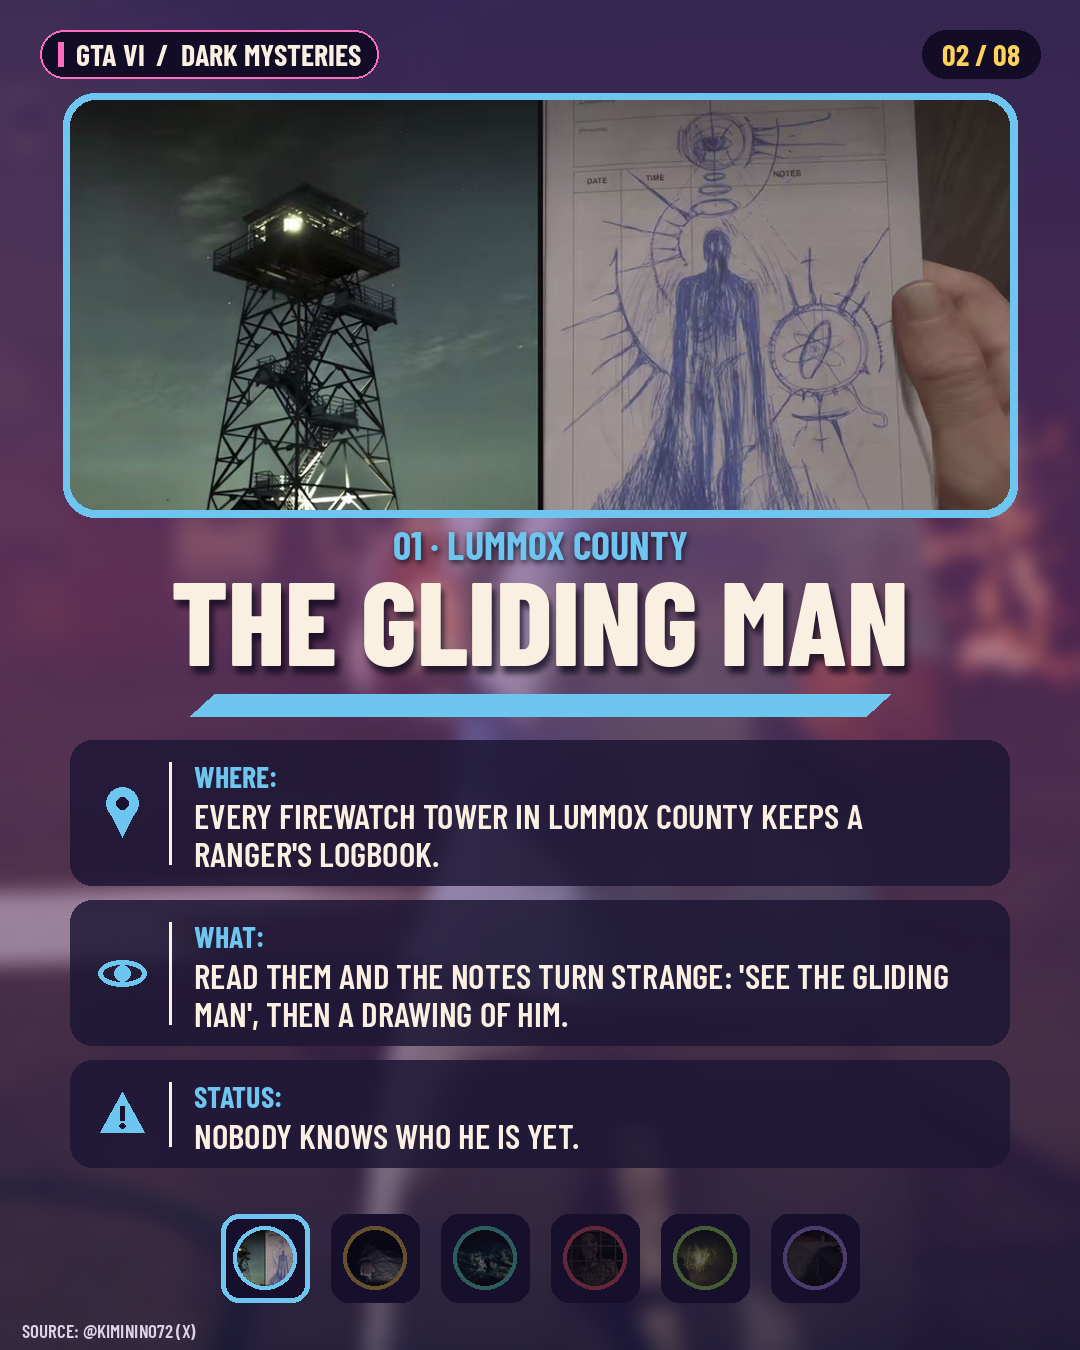
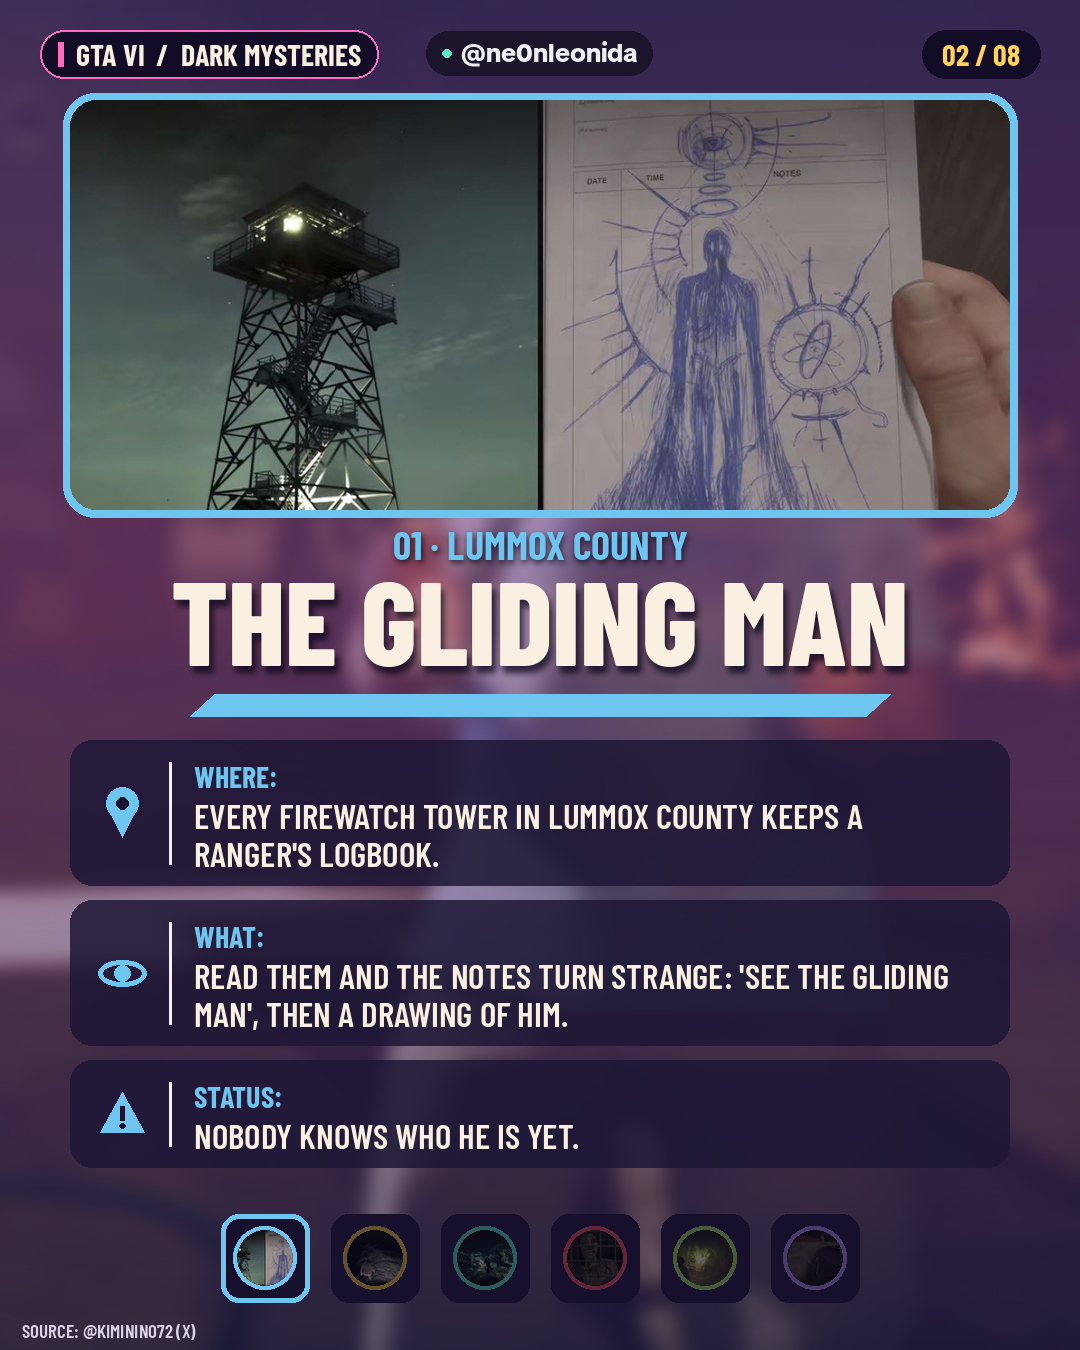
watermark @ne0nleonida on all videos + slideshows (tools/brandmark.py), mysteries slides rebuilt

Changed region(s): [[0.3972, 0.0, 0.6111, 0.0622]]

diff --git a/tools/slides_card_build.py b/tools/slides_card_build.py
@@ -2,6 +2,7 @@
 """Card-style 4:5 TikTok slideshow (owner ref: the 3.5K '10 hidden controls' slideshow). Bright image on top that
 fades into dark navy, pill tag, giant headline, teal-accent cards / checklist rows, credit + 'save' footer.
 Usage: python3 tools/slides_card_build.py media/configs/<name>.json"""
+from brandmark import video_mark, slide_mark, mark_png   # channel watermark (owner 2026-11-28)
 import json, os, subprocess, sys
 from PIL import Image, ImageDraw, ImageFont
 C = json.load(open(sys.argv[1])); out = C["out_dir"]; os.makedirs(out, exist_ok=True)
@@ -49,14 +50,14 @@ for i, sl in enumerate(C["slides"], C.get("start", 1)):
         d.text((L, y), sl["h2"], font=fh, fill=TEAL, anchor="lt"); y += fh.size + 40
         for ln in wrap(d, sl["sub"], f7(40), R - L): d.text((L, y), ln, font=f7(40), fill=WHITE, anchor="lt"); y += 52
         if sl.get("swipe"): d.text((L, y + 30), sl["swipe"], font=f8(32), fill=TEAL, anchor="lt")
-        footer(d); im.save(f"{out}/{i:02d}.jpg", quality=97, subsampling=0); print(i); continue
+        footer(d); slide_mark(im, W // 2, 1288); im.save(f"{out}/{i:02d}.jpg", quality=97, subsampling=0); print(i); continue
     if sl.get("full"):  # whole screenshot/map on a card (owner 2026-11-23: map slideshow), fit into y 132-1240
         im = Image.new("RGB", (W, H), BG); d = ImageDraw.Draw(im); pill(d, i)
         bh = 1240 - 132; s = min((R - L) / src.width, bh / src.height); w, h = int(src.width * s), int(src.height * s)
         x, y = (W - w) // 2, 132 + (bh - h) // 2
         m = Image.new("L", (w, h), 0); ImageDraw.Draw(m).rounded_rectangle((0, 0, w - 1, h - 1), 22, fill=255)
         d.rounded_rectangle((x - 4, y - 4, x + w + 3, y + h + 3), 26, fill=TEAL); im.paste(src.resize((w, h)), (x, y), m)
-        footer(ImageDraw.Draw(im)); im.save(f"{out}/{i:02d}.jpg", quality=97, subsampling=0); print(i); continue
+        footer(ImageDraw.Draw(im)); slide_mark(im, W // 2, 1288); im.save(f"{out}/{i:02d}.jpg", quality=97, subsampling=0); print(i); continue
     if sl.get("step"):  # owner 2026-11-25: image = top half, big instruction text = bottom half (no empty space)
         ih = 640; im = Image.new("RGB", (W, H), BG); im.paste(top_image(src, ih), (0, 0)); im = fade(im, ih - 160, ih + 10)
         d = ImageDraw.Draw(im); pill(d, i)
@@ -70,7 +71,7 @@ for i, sl in enumerate(C["slides"], C.get("start", 1)):
         d.text((L, y), sl["head"], font=hf, fill=WHITE, anchor="lt"); y += hf.size + 30
         d.rectangle((L, y, L + 120, y + 6), fill=TEAL); y += 34
         for ln in wrap(d, sl["body"], f7(bs), R - L): d.text((L, y), ln, font=f7(bs), fill=WHITE, anchor="lt"); y += int(bs * 1.32)
-        footer(d); im.save(f"{out}/{i:02d}.jpg", quality=97, subsampling=0); print(i); continue
+        footer(d); slide_mark(im, W // 2, 1288); im.save(f"{out}/{i:02d}.jpg", quality=97, subsampling=0); print(i); continue
     lst = sl.get("list"); n = len(lst) if lst else 0
     ih = 660 if not lst else (600 if n <= 4 else 380 if n <= 8 else 250)
     im = Image.new("RGB", (W, H), BG); im.paste(top_image(src, ih), (0, 0)); im = fade(im, ih - 220, ih); d = ImageDraw.Draw(im); pill(d, i)
@@ -101,4 +102,4 @@ for i, sl in enumerate(C["slides"], C.get("start", 1)):
             yy = y + 92
             for ln in lines: d.text((L + 34 + kw, yy), ln, font=bfnt, fill=GREY, anchor="lt"); yy += 48
             y += hh + 26
-    footer(d); im.save(f"{out}/{i:02d}.jpg", quality=97, subsampling=0); print(i)
+    footer(d); slide_mark(im, W // 2, 1288); im.save(f"{out}/{i:02d}.jpg", quality=97, subsampling=0); print(i)

diff --git a/tools/brandmark.py b/tools/brandmark.py
@@ -1,0 +1,45 @@
+"""Channel watermark for ALL videos + slideshows (owner 2026-11-28: 'in allen zukuenftigen Slideshows und Videos ein
+Watermark von meinem Account - nicht stoerend, aber gut sichtbar').
+
+Look: '@ne0nleonida' in TikTok Sans 800, white on a dark translucent pill with a small teal dot.
+  * videos: top-left inside the TikTok safe zone (x 130, y ~258, just under the search bar), whole video.
+  * slides: placed by each builder in a free spot (footer centre / top centre), same pill.
+Usage:
+  from brandmark import video_mark, slide_mark      (sys.path has tools/ when a builder runs as tools/x.py)
+  dr.append(video_mark())                            # ffmpeg drawtext chain element (no leading comma)
+  slide_mark(im, cx, cy)                             # PIL RGB/RGBA image, centre point
+"""
+from PIL import Image, ImageDraw, ImageFont
+
+HANDLE = "@ne0nleonida"
+FONT = "brand/fonts/TikTokSans-800.ttf"
+TEAL = (94, 230, 200)
+
+
+def video_mark(x=130, y=258, size=34):
+    """drawtext element: white handle on a translucent dark box, top-left of the safe zone, whole video."""
+    return (f"drawtext=fontfile={FONT}:text='{HANDLE}':fontsize={size}:fontcolor=white@0.88:"
+            f"box=1:boxcolor=0x0E0C18@0.45:boxborderw=14:x={x}:y={y}")
+
+
+def mark_png(size=28):
+    """RGBA pill with teal dot + handle (used for slides and PNG overlays)."""
+    f = ImageFont.truetype(FONT, size)
+    tw = int(ImageDraw.Draw(Image.new("RGBA", (1, 1))).textlength(HANDLE, font=f))
+    h = int(size * 1.75); dot = int(size * 0.38); pad = int(size * 0.65)
+    w = pad + dot + int(size * 0.4) + tw + pad
+    im = Image.new("RGBA", (w, h), (0, 0, 0, 0)); d = ImageDraw.Draw(im)
+    d.rounded_rectangle((0, 0, w - 1, h - 1), h // 2, fill=(14, 12, 24, 175))
+    cy = h // 2; d.ellipse((pad, cy - dot // 2, pad + dot, cy + dot // 2), fill=TEAL)
+    d.text((pad + dot + int(size * 0.4), cy), HANDLE, font=f, fill=(255, 255, 255, 235), anchor="lm")
+    return im
+
+
+def slide_mark(im, cx, cy, size=28):
+    """Paste the pill centred on (cx, cy). Works on RGB (returns same object, modified) and RGBA."""
+    m = mark_png(size); x, y = int(cx - m.width / 2), int(cy - m.height / 2)
+    if im.mode == "RGBA":
+        im.alpha_composite(m, (x, y))
+    else:
+        im.paste(m, (x, y), m)
+    return im

diff --git a/tools/mentality_build.py b/tools/mentality_build.py
@@ -12,6 +12,7 @@ Config: {"card": "Monte GTA 6 Mentality", "hook": ["LINE 1", "LINE 2"], "music":
  "beats": [{"footage": "...cut.mp4", "start": 0, "end": 6, "facecam": [x,y,w,h], "game_crop": [x,y,w,h],
             "words": [[w,s,e],...] (cut time), "red_words": [...], "card_before": false}, ...]}
 """
+from brandmark import video_mark, slide_mark, mark_png   # channel watermark (owner 2026-11-28)
 import json, os, subprocess, sys, tempfile
 
 W, H, SEAM = 1080, 1920, 800
@@ -62,6 +63,7 @@ for i, b in enumerate(C["beats"]):
                       f"boxcolor=white:boxborderw=14:x=(w-tw)/2:y={y}")
     dr.append(f"drawtext=fontfile={FB}:text='{esc(C['credit'])}':fontsize=20:fontcolor=white@0.6:borderw=1:"
               f"bordercolor=black@0.6:x=24:y=h-44")   # tiny bottom-left, no disclaimer (owner 2026-11-26)
+    dr.append(video_mark())   # @ne0nleonida watermark (owner 2026-11-28)
     fc = (f"[0:v]trim={s0}:{s1},setpts=PTS-STARTPTS,fps=30,split[a][b];"
           f"[a]crop={fw}:{fh}:{fx}:{fy},scale={W}:{SEAM}:force_original_aspect_ratio=increase,crop={W}:{SEAM}[top];"
           f"[b]{gcf}scale={W}:{H - SEAM}:force_original_aspect_ratio=increase,crop={W}:{H - SEAM}[bot];"

diff --git a/tools/story_build.py b/tools/story_build.py
@@ -25,6 +25,7 @@ config:
  "fps": 60, "out": "media/edits/<date>_story_<slug>.mp4"
 }
 """
+from brandmark import video_mark, slide_mark, mark_png   # channel watermark (owner 2026-11-28)
 import json, os, subprocess, sys, tempfile, math
 from PIL import Image, ImageDraw, ImageFont
 
@@ -137,9 +138,8 @@ for i, (w, s, e) in enumerate(words):
     t = w.strip()
     dr.append(f"drawtext=fontfile={FB}:text='{esc(t)}':fontsize={ws}:fontcolor=white:borderw=5:bordercolor=black@0.55:"
               f"shadowx=0:shadowy=6:shadowcolor=black@0.6:x=(w-tw)/2:y={wy}-ascent:enable='between(t,{s:.3f},{e2:.3f})'")
-if C.get("watermark"):
-    dr.append(f"drawtext=fontfile={FM}:text='{esc(C['watermark'])}':fontsize=34:fontcolor=white@0.28:"
-              f"x=(w-tw)/2+120:y={C.get('watermark_y', 1020)}")
+if C.get("watermark", True):   # @ne0nleonida pill top-left safe zone (owner 2026-11-28, all videos)
+    dr.append(video_mark())
 if C.get("credit"):
     dr.append(f"drawtext=fontfile={FM}:text='{esc(C['credit'])}':fontsize=20:fontcolor=white@0.6:borderw=1:"
               f"bordercolor=black@0.6:x=24:y=h-44")

diff --git a/tools/top5_build.py b/tools/top5_build.py
@@ -13,6 +13,7 @@ Config: {"title": [[["RANKING THE ","white"],["FUNNIEST","green"]], [["GTA 6 ","
               "red_words":[...], "credit":"Clip: @x on Twitch"}, ... ]}   # items in play order (5 first)
 Usage: python3 tools/top5_build.py media/configs/<name>.json   (run with /tmp/venv/bin/python if PIL is broken)
 """
+from brandmark import video_mark, slide_mark, mark_png   # channel watermark (owner 2026-11-28)
 import json, os, subprocess, sys, tempfile
 from PIL import Image, ImageDraw, ImageFont
 
@@ -106,6 +107,7 @@ for i, it in enumerate(items):
             cs -= 4
         dr.append(f"drawtext=fontfile={FB}:text='{esc(txt)}':fontsize={cs}:fontcolor={c}:borderw=8:bordercolor=black:"
                   f"x=(w-tw)/2:y=1420-th/2:enable='between(t,{max(0,a-s0):.2f},{b-s0:.2f})'")
+    dr.append(video_mark())   # @ne0nleonida watermark (owner 2026-11-28)
     cap = ("," + ",".join(dr)) if dr else ""
     fc = (f"[0:v]trim={s0}:{s1},setpts=PTS-STARTPTS,fps=30,split[a][b];"
           f"[a]crop={fw}:{fh}:{fx}:{fy},scale={W}:{SEAM}:force_original_aspect_ratio=increase,crop={W}:{SEAM}[top];"

diff --git a/tools/slides_v2_build.py b/tools/slides_v2_build.py
@@ -1,6 +1,7 @@
 #!/usr/bin/env python3
 """SLIDESHOW RECIPE v2 builder: cover (real frame + black band title) + item slides (item frame top, map below) + end slide.
 Usage: python3 tools/slides_v2_build.py media/configs/<cfg>.json   (frames are grabbed from cfg["src"] with ffmpeg)"""
+from brandmark import slide_mark   # channel watermark (owner 2026-11-28)
 import json, os, subprocess, sys
 from PIL import Image, ImageDraw, ImageFont, ImageFilter, ImageEnhance
 cfg = json.load(open(sys.argv[1])); out = cfg["out_dir"]; os.makedirs(out, exist_ok=True)
@@ -63,6 +64,7 @@ def brand(d, i):
 
 n = 0
 def save(im):
+    slide_mark(im, W // 2, H - 52)   # @ne0nleonida watermark (owner 2026-11-28)
     global n; n += 1; p = f"{out}/{n:02d}.jpg"; im.save(p, quality=97, subsampling=0); print(p)
 
 c = cfg["cover"]; im = Image.new("RGB", (W, H)); im.paste(fill(from_img(c["img"]) if c.get("img") else grab(c["t"], c.get("gamma", 1.0)), W, 900, c.get("cx", 0.5)), (0, 0))

diff --git a/tools/slides_neon_build.py b/tools/slides_neon_build.py
@@ -11,6 +11,7 @@ config: {"out_dir", "tag", "credit", "bg": [video, t] | image path,
          "end": {"h1": [..], "sub"}}
 icon = pin | dot | check | eye | warn
 """
+from brandmark import video_mark, slide_mark, mark_png   # channel watermark (owner 2026-11-28)
 import json, os, subprocess, sys
 from PIL import Image, ImageDraw, ImageFont, ImageFilter, ImageEnhance
 
@@ -67,6 +68,7 @@ def brand(im, i):
     d.rectangle((58, 42, 63, 66), fill=(255, 110, 190)); d.text((76, 54), tag, font=ft, fill=CREAM, anchor="lm")
     ct = f"{i:02d} / {N:02d}"; cw = d.textlength(ct, font=fb(30))
     d.rounded_rectangle((W - 40 - cw - 40, 30, W - 40, 78), 24, fill=(18, 12, 38, 230)); d.text((W - 60, 54), ct, font=fb(30), fill=(255, 210, 90), anchor="rm")
+    slide_mark(im, W // 2, 54, size=26)   # @ne0nleonida watermark (owner 2026-11-28)
     d.text((22, H - 12), C["credit"], font=fs(19), fill=(220, 210, 235, 150), anchor="ls")
 
 

diff --git a/tools/quote_cut.py b/tools/quote_cut.py
@@ -9,6 +9,7 @@ Config: {"footage": "...mp4", "start": 0, "end": 6.6, "facecam": [x,y,w,h], "gam
          "quote": "Guck, wie krass das aussieht", "emoji": "😍", "credit": "Clip: @x on Twitch",
          "out": "media/edits/x.mp4"}
 """
+from brandmark import video_mark, slide_mark, mark_png   # channel watermark (owner 2026-11-28)
 import json, subprocess, sys, tempfile
 from PIL import Image, ImageDraw, ImageFilter, ImageFont
 
@@ -50,6 +51,7 @@ def overlay():
     if C.get("credit"):   # tiny bottom-left (owner 2026-11-26: no disclaimer line)
         d.text((24, H - 44), C["credit"], font=ImageFont.truetype(FONT, 20), fill=(255, 255, 255, 150),
                stroke_width=1, stroke_fill=(0, 0, 0, 150))
+    img.alpha_composite(mark_png(30), (130, 250))   # @ne0nleonida watermark (owner 2026-11-28)
     p = f"{tmp}/ov.png"; img.save(p); return p
 
 

diff --git a/tools/guide_build_v2.py b/tools/guide_build_v2.py
@@ -19,6 +19,7 @@ config:
  "credit": "Footage: @x (YouTube)", "tail": 0.8, "out": "media/edits/....mp4"
 }
 """
+from brandmark import video_mark, slide_mark, mark_png   # channel watermark (owner 2026-11-28)
 import json, os, subprocess, sys, tempfile
 from PIL import Image, ImageDraw, ImageFont, ImageEnhance, ImageFilter
 
@@ -204,6 +205,7 @@ for i, ch_ in enumerate(chunks):
 if C.get("credit"):
     dr.append(f"drawtext=fontfile={DJ}:text='{esc(C['credit'])}':fontsize=20:fontcolor=white@0.6:borderw=1:"
               f"bordercolor=black@0.6:x=24:y=h-44")
+dr.append(video_mark())   # @ne0nleonida watermark, every video (owner 2026-11-28)
 f.append("[v0]" + ",".join(dr) + "[v1]")
 
 inputs = ["-i", joined, "-i", vo, "-loop", "1", "-i", logo_png]

diff --git a/tools/info_build.py b/tools/info_build.py
@@ -25,6 +25,7 @@ config.json:
   "out": "media/edits/x.mp4"
 }
 """
+from brandmark import video_mark, slide_mark, mark_png   # channel watermark (owner 2026-11-28)
 import json, os, subprocess, sys
 from PIL import Image, ImageDraw
 
@@ -151,6 +152,7 @@ if C.get("end_text"):
 if C.get("credit") and not C.get("no_credit"):   # tiny bottom-left (owner 2026-11-26: no disclaimer line)
     dr.append(f"drawtext=fontfile={F}:text='{esc(C['credit'])}':fontsize=20:fontcolor=white@0.6:borderw=1:"
               f"bordercolor=black@0.6:x=24:y=h-44")
+dr.append(video_mark())   # @ne0nleonida watermark (owner 2026-11-28)
 f.append("[v0]" + ",".join(dr) + "[v1]")
 cur = "v1"
 if steps:

diff --git a/tools/guide_build.py b/tools/guide_build.py
@@ -21,6 +21,7 @@ config:
   "out": "media/edits/x.mp4"
 }
 """
+from brandmark import video_mark, slide_mark, mark_png   # channel watermark (owner 2026-11-28)
 import json, subprocess, sys
 from PIL import ImageFont
 
@@ -100,6 +101,7 @@ for i, (w, st, en) in enumerate(W):
 if C.get("credit"):   # tiny bottom-left (owner 2026-11-26: no disclaimer line)
     dr.append(f"drawtext=fontfile={F}:text='{esc(C['credit'])}':fontsize=20:fontcolor=white@0.6:borderw=1:"
               f"bordercolor=black@0.6:x=24:y=h-44")
+dr.append(video_mark())   # @ne0nleonida watermark (owner 2026-11-28)
 f.append("[v0]" + ",".join(dr) + "[v1]")
 
 inputs = ["-i", C["footage"], "-i", vo]

diff --git a/CLAUDE.md b/CLAUDE.md
@@ -61,6 +61,10 @@ Build with `python3 tools/info_build.py media/configs/<name>.json` (keep the con
    `"footage_offset": <section start s>`). All builders export CRF 16 / preset slow / maxrate 16M, lanczos scaling,
    light unsharp. Before publishing compare a 1:1 crop of the new video with the source - text/edges must be sharp.
 
+10. **WATERMARK @ne0nleonida on EVERY video + slideshow (owner 2026-11-28 ~19:10: 'nicht stoerend aber gut sichtbar')**:
+   tools/brandmark.py - videos: translucent dark box top-left of the safe zone (x 130, y 258, whole video); slides: pill with
+   teal dot (card/v2 = footer centre, neon = top centre). All builders add it automatically - never remove it.
+
 ## TikTok publishing (owner, 2026-11-18 12:25 UTC, confirmed live)
 TikTok posts use schedulingType **automatic**, like X/IG/YouTube. This overrides any scheduled prompt
 that says "notification"/reminder. Our own music stays baked in.
